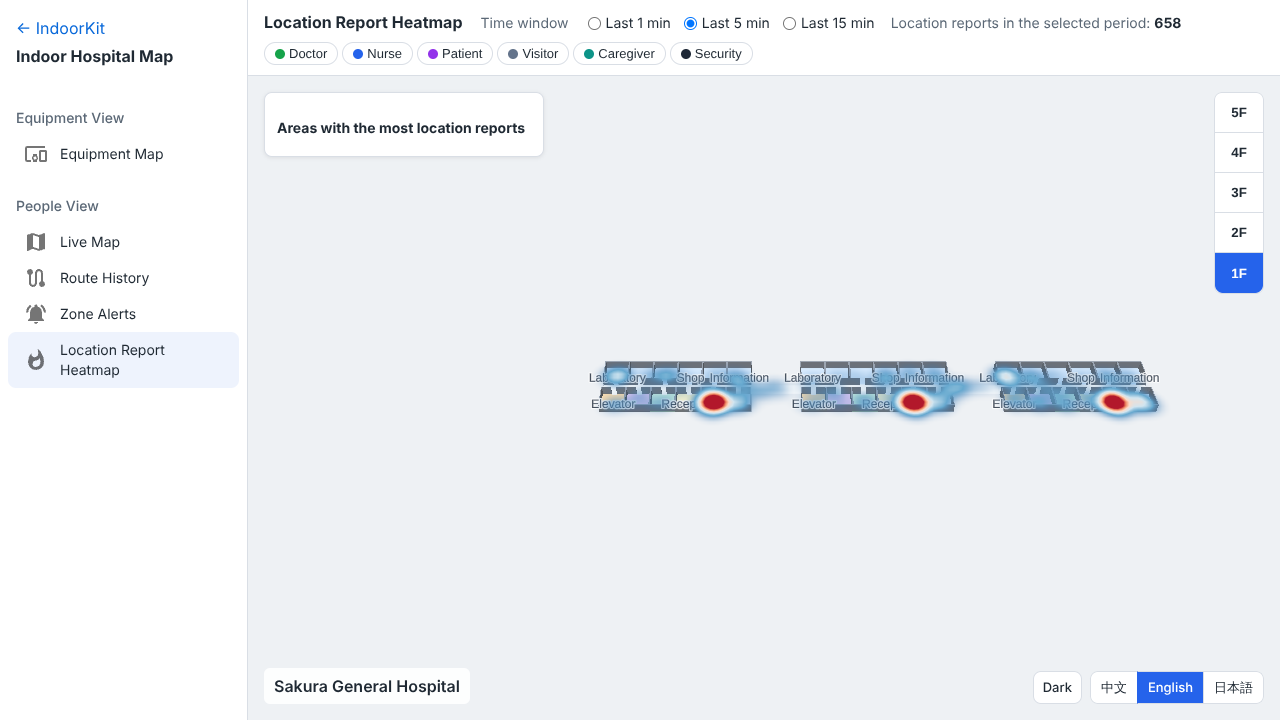
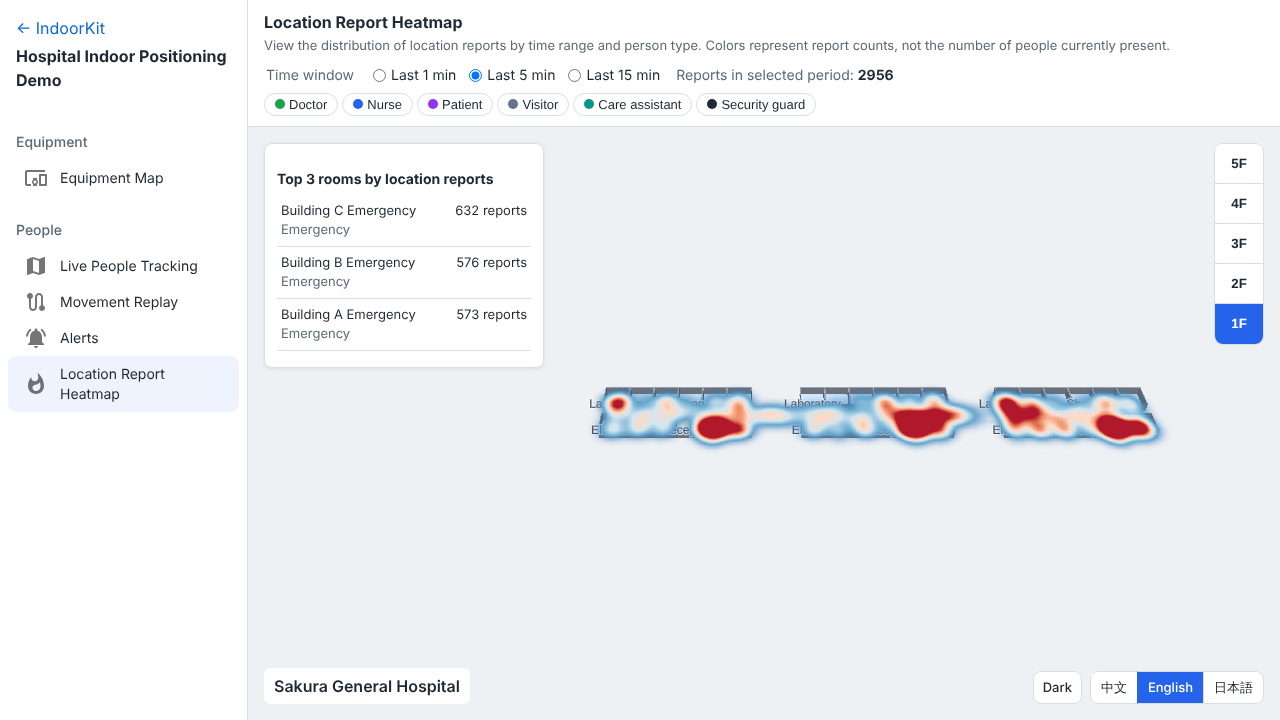
docs: apply the copy review to the three READMEs and retake screenshots
README-001 to README-043: the SDK comes first, departments instead of
clinical departments, three alert categories, rule descriptions that
match the engine, and a contrast claim scoped to what the tests check.
Page and group names follow the app.

Claude-Session: https://claude.ai/code/session_01Pu2VmrH4jZJrU7jY1CAmuC

diff --git a/README.md b/README.md
@@ -1,8 +1,8 @@
-# IndoorKit — Indoor Hospital Map
+# IndoorKit — Hospital Indoor Positioning Demo
 
 **English** | [简体中文](README.zh-CN.md) | [日本語](README.ja.md)
 
-A demo of indoor positioning (RTLS) for a hospital, running entirely in the browser. It is built on an indoor map SDK written from scratch in TypeScript on top of MapLibre GL JS.
+IndoorKit is an indoor mapping SDK built with TypeScript and MapLibre GL JS. This repository includes a hospital real-time location system (RTLS) demo that runs entirely in the browser.
 
 **Live demo: <https://vivi-shiki.github.io/IndoorKit/?lang=en>**
 
@@ -10,62 +10,62 @@ All people, equipment and buildings are fictional. The venue is "Sakura General 
 
 ## Departments
 
-Every room belongs to a department, such as Emergency, Internal Medicine, Surgery or Intensive Care, and a department can span several rooms, buildings and floors. Every device and every person also belongs to a department. Corridors, elevators and restrooms are public areas that belong to no department.
+In this demo, clinical, nursing, administrative, and service rooms are assigned to departments, such as Emergency, Internal Medicine, Surgery or Intensive Care. A department may span multiple rooms, buildings, and floors. People and equipment also have an assigned department. Shared spaces such as corridors, elevators, and restrooms are not assigned to a department.
 
-Alerts check the department area first, and geofences second:
+Alerts come from department rules, geofence rules, and reported status. For each position report, the engine checks department rules, then geofences, and then status signals such as equipment going offline or an SOS request:
 
-1. **Department area**: for example a patient outside their own department for more than 30 s, a visitor entering a department they are not visiting, or a device taken out of its department.
-2. **Geofences**: a restricted ICU that only ICU staff may enter, anti-theft at the 1F exits for devices, and a visiting-time limit in a ward.
-3. **Reported status**: a device going offline, or a person pressing the SOS button.
+1. **Department rules**: for example a patient outside their assigned department for more than 30 s, a visitor entering a department they are not visiting, or a device taken out of its department.
+2. **Geofences**: an ICU access restriction with exemptions based on department, an equipment-restricted area near a first-floor entrance, and a visit duration limit for a patient room.
+3. **Status reports**: equipment going offline, or a person sending an SOS request.
 
-## Equipment View
+## Equipment
 
 ### Equipment Map
 
-Which devices are in which room, what state they are in and how long they have worked today. Devices report their running status (running, idle, offline, maintenance), simulated here from a schedule for each device.
+View the equipment in each room, its current status, and its operating time today. The demo simulates operating, idle, offline, and maintenance states using a predefined schedule for each device.
 
-- Devices are grouped by room. Each room shows one cluster point coloured by its most severe status.
-- The department list shows each department's device count and how many are offline or under maintenance. Select a department to highlight its rooms and list them.
-- Click a room to see its devices. Click a device to see its status, how long it has been in that status, its running time today, its battery and a timeline of today's status.
-- Search by device code or type, and filter by status or type.
+- Equipment is grouped by room. Each room has a cluster marker whose color reflects the highest-priority equipment status in that room.
+- The department list shows each department's equipment count and how many devices are offline or under maintenance. Select a department to highlight its rooms and list them.
+- Click a room to see its equipment. Click a device to see its status, how long it has been in that status, its operating time today, its battery and its status history today.
+- Search by equipment ID or type, and filter by status or type.
 
 ![Equipment Map](docs/images/assets.png)
 
-## People View
+## People
 
-### Live Map
+### Live People Tracking
 
-Where everyone is now. Tags walk along corridors, enter rooms through doors and change floors only by elevator or stairs.
+See where everyone is now. Simulated people move along corridors, enter and leave rooms through doorways, and move between floors using elevators or stairs.
 
-- People are coloured by role (doctor, nurse, patient, visitor, caregiver, security) and can be filtered by role.
+- People are colored by person type (doctor, nurse, patient, visitor, care assistant, security guard) and can be filtered by type.
 - People are listed by department, with how many are outside their assigned department.
-- Search a name or ID to jump to the person's floor and follow them. The person card shows their department, their location and whether they are inside their assigned department, with a link to their trail.
-- Choose 500, 2,000 or 5,000 tags; positions are reported once per second and glide smoothly between reports. A performance panel shows frame rate, frame interval and tags online.
+- Search by name or ID, then select a result to switch to that person’s floor and follow their location. The person card shows their assigned department, their location and whether they are inside their assigned department, with a link to replay their movement.
+- Choose 500, 2,000 or 5,000 simulated tags; positions are reported once per second and glide smoothly between reports. A performance panel shows frame rate, frame interval and online tags.
 
-![Live Map](docs/images/tracking.png)
+![Live People Tracking](docs/images/tracking.png)
 
-### Route History
+### Movement Replay
 
-Where someone has been. Pick a person and a range of 15, 30 or 60 minutes, and play the trail back at 1×, 4× or 16×.
+See where someone has been. Pick a person and a period of 15, 30 or 60 minutes, and replay their movement at 1×, 4× or 16×.
 
-- The map follows the person from floor to floor while the trail plays.
+- The map follows the person from floor to floor during the replay.
 - Stops are listed with their time, room and duration, and marked when they are outside the person's assigned department. Click a stop to jump to that moment.
 - Alerts along the route are listed below the stops.
 
-![Route History](docs/images/trail.png)
+![Movement Replay](docs/images/trail.png)
 
-### Zone Alerts
+### Alerts
 
-One list for department, geofence and status alerts, with who, where, which layer and how severe.
+A single list shows department, geofence, and status alerts, including the affected person or device, location, alert category, and severity.
 
-- Acknowledge or resolve each alert, and filter the feed by layer.
+- Mark each alert as acknowledged or resolved, and filter the list by alert category.
 - Click the person or device in an alert to jump to its floor and position.
 
-![Zone Alerts](docs/images/alerts.png)
+![Alerts](docs/images/alerts.png)
 
 ### Location Report Heatmap
 
-Location reports on each floor over the last 1, 5 or 15 minutes, filtered by role, with the three rooms on the floor that have the most reports. Report counts show where tags were, not how many people were there.
+Location reports on each floor over the last 1, 5 or 15 minutes, filtered by person type, with the three rooms on the floor that have the most reports. Colors represent report counts, not the number of people currently present.
 
 ![Location Report Heatmap](docs/images/occupancy.png)
 
@@ -73,19 +73,19 @@ Location reports on each floor over the last 1, 5 or 15 minutes, filtered by rol
 
 - Floor switching (1F–5F) across all buildings at once.
 - Chinese, English and Japanese, including the room names drawn inside the map.
-- Light and dark themes; text meets WCAG AA contrast in both.
+- Both themes target WCAG AA text contrast requirements. See the [contrast tests](apps/playground/e2e/theme-contrast.spec.ts) for the checks currently covered.
 - Language and theme are remembered in the browser for the next visit.
 
 ## Technical highlights
 
 - **Indoor map SDK with a plugin system.** `definePlugin` declares a plugin and its dependencies; plugins load in dependency order and their APIs are fully typed (`map.plugins.alarm.alarms()`).
-- **No leaks by design.** Every source, layer, listener, timer and Worker a plugin creates is registered with a `ResourceTracker` and released in reverse order by `destroy()`. A memory regression test switches through all pages repeatedly and checks the JS heap, Workers and registered resources.
-- **Open data format.** Maps use IMDF (OGC Community Standard), validated with zod, including references between features and unique ids. Departments are an extra IMDF file that lists the rooms of each department; validation rejects unknown rooms and rooms claimed by two departments. The fictional hospital is generated by a script, so the data is reproducible.
+- **Resource tracking and cleanup.** Every source, layer, listener, timer and Worker a plugin creates is registered with a `ResourceTracker` and released in reverse order by `destroy()`. A memory regression test switches through all pages repeatedly and checks the JS heap, Workers and registered resources.
+- **Open data format.** Maps use IMDF (OGC Community Standard), validated with zod, including references between features and unique ids. Departments are an IMDF extension file that lists the rooms of each department; validation rejects unknown rooms and rooms claimed by two departments. The fictional hospital is generated by a script, so the data is reproducible.
 - **Styles generated from data.** Room colors and 2.5D heights come from the room category and a theme; walls and rooms are extruded with `fill-extrusion`, no 3D models needed. Language and theme switch at runtime without recreating the map.
-- **Real-time data off the main thread.** A deterministic, seeded simulator runs in a Web Worker and talks to the page through Comlink. The same ID is always the same person or device, with the same role, department and status schedule.
-- **Two-layer alert engine.** Each report is checked against department rules first (outside the assigned department with a grace period, entering another department) and geofences second (forbidden, dwell too long, left the area), with exemptions by department. An alert fires once and resets when the person or device returns.
+- **Position simulation in a Web Worker.** A deterministic, seeded simulator runs in a Web Worker and talks to the page through Comlink. The same ID is always the same person or device, with the same person type, department and status schedule.
+- **Two-layer alert engine.** Each report is checked against department rules first (outside the assigned department with a grace period, entering another department) and geofences second (restricted area, dwell time exceeded, left the area), with exemptions by department. Area rules raise an alert once per ongoing violation and can trigger again after the violation clears. Offline and SOS alerts are handled separately as status changes.
 - **Spatial algorithms.** A Flatbush index plus point-in-polygon checks finds the room and department of every report; interpolated movement with trail history and stop detection; per-room clustering by status; a heatmap that aggregates samples into per-minute grid buckets so memory stays bounded.
-- **Tested end to end.** Unit tests run the SDK against an in-memory fake map without WebGL. Playwright tests drive the real pages through test hooks, check contrast in both themes, and measure heap growth through the Chrome DevTools Protocol. GitHub Actions runs everything and deploys to GitHub Pages.
+- **Tested end to end.** Unit tests run the SDK against an in-memory mock map without WebGL. Playwright tests drive the real pages through test hooks, check contrast in both themes, and measure heap growth through the Chrome DevTools Protocol. GitHub Actions runs everything and deploys to GitHub Pages.
 
 ## Tech stack
 
@@ -99,7 +99,7 @@ TypeScript (strict) · MapLibre GL JS · IMDF · zod · Web Worker + Comlink · 
 | `packages/imdf` | IMDF loading, validation and conversion, with extension files for data outside the standard |
 | `packages/rtls` | Real-time positioning contract: tag positions, data providers and the `positions:update` event |
 | `packages/plugins` | Floor, zone, position stream, room cluster, trail, cluster, geofence, heatmap, polygon, line, popup and marker plugins. No hospital concepts |
-| `domains/hospital` | Hospital business logic without a map: departments (an IMDF extension), roles, devices and statuses, and the two-layer alert engine |
+| `domains/hospital` | Hospital business logic without a map: departments (an IMDF extension), person types, equipment and statuses, and the two-layer alert engine |
 | `tools/venue-gen` | Generator for the fictional hospital and its departments |
 | `tools/rtls-simulator` | Roster of people and devices, movement simulator and its Worker data provider |
 | `apps/playground` | The live demo, in React with MUI: a home page with the three use cases, then the five hospital pages behind a sidebar (top menu on phones). `engine/` loads MapLibre, `adapters/` connects the hospital domain and the simulator to SDK plugins, `presentation/` formats text and colors, `pages/` holds each page, `testing/` holds the test hooks |

diff --git a/docs/tasks/CURRENT.md b/docs/tasks/CURRENT.md
@@ -21,6 +21,7 @@
 # UPDATES
 
 - 2026-10-20 Vivi: 现在的三语表述有很严重的不流畅感觉，能不能参考react更新前上一版，重写各个文案，给我一个修复方案. Plan reviewed in the Claude Doc 「IndoorKit 三语文案修复方案」; all three open points accepted. Follow-up: the home intro names only what the SDK and the application layer each handle, with one set of terms and no negatives (「不要提不xx」). → No.2
+- 2026-10-21 Vivi: 按照这个方案重新整改 (with the review document 「IndoorKit 三语文案审核与整改文档」, 155 items against b863dd8: UI-001～086, MAP-001～018, README-001～043, IMPL-001～009). The document replaces the copy from No.2 where they differ. → No.3
 
 # TEST [CONFIRMED]
 
@@ -48,6 +49,7 @@ Before the change: `vitest run test/layers.test.ts apps/playground/test` → 3 l
 
 - No.1 React + MUI app shell, hash router with ordered teardown, pages as React components [CONFIRMED]
 - No.2 Rewrite the new home, carousel and menu copy in the voice of the reviewed hospital copy [CONFIRMED]
+- No.3 Apply the trilingual copy review document [CONFIRMED]
 
 ## No.1 React + MUI app shell, hash router with ordered teardown, pages as React components
 
@@ -81,4 +83,19 @@ Before the change: `vitest run test/layers.test.ts apps/playground/test` → 3 l
 
 - `pnpm verify`: 308 unit tests pass.
 - `pnpm e2e`: 103 passed, including leak-bench and both contrast checks; home in three languages, the heatmap page and the phone trail page checked by eye.
+
+## No.3 Apply the trilingual copy review document
+
+### CODE CHANGE
+
+- `i18n.ts`: every UI-001～086 suggestion; a language marked 保留原文 keeps the b863dd8 text, and keys the document does not list go back to b863dd8 (this undoes No.2 where they differ, for example the ja 〜向け view names). Terms follow section 3: 部门 / department / 部門, 人员类型 / person type / 対象者の区分, 轨迹回放 / Movement Replay / 移動履歴の再生, 告警中心 / Alerts / アラート一覧, 未解决 / Unresolved / 未解決, “mark as” buttons. `group.efficiency.desc` and `page.assets.desc` also switch to 部门 / 部門 so the term is the same everywhere.
+- IMPL-001～009: localized `aria-roledescription`; `panel.show` / `panel.hide`; theme button named by its action (`aria-label`, no `aria-pressed`); map loading and failure overlay with retry (`useMapPage` returns `[page, load]`, failed venue requests are not cached); empty states for the heatmap ranking (only when there are no reports at all) and the stop list; “Stop following”; filter hint on chip groups; `countText` for English singular forms.
+- `tools/venue-gen`: MAP-001～018; the department claim table uses the new English names, and the alerts page finds Patient room 401.
+- READMEs: README-001～043 plus the new page and group names; screenshots re-taken.
+- Tests: terminology table, American spelling, 科室 / 診療科 no longer used, empty states and singular counts (`empty-states.test.ts`), map labels, `map-load.spec.ts`, theme button, follow button, list toggle text, carousel role descriptions. `titles.spec.ts` now allows “Demo” because the reviewed product name contains it.
+
+### CONFIRMED
+
+- `pnpm verify`: 315 unit tests pass.
+- `pnpm e2e`: 105 passed, including leak-bench and both contrast checks. Home, heatmap and phone trail pages checked by eye in three languages.
 
